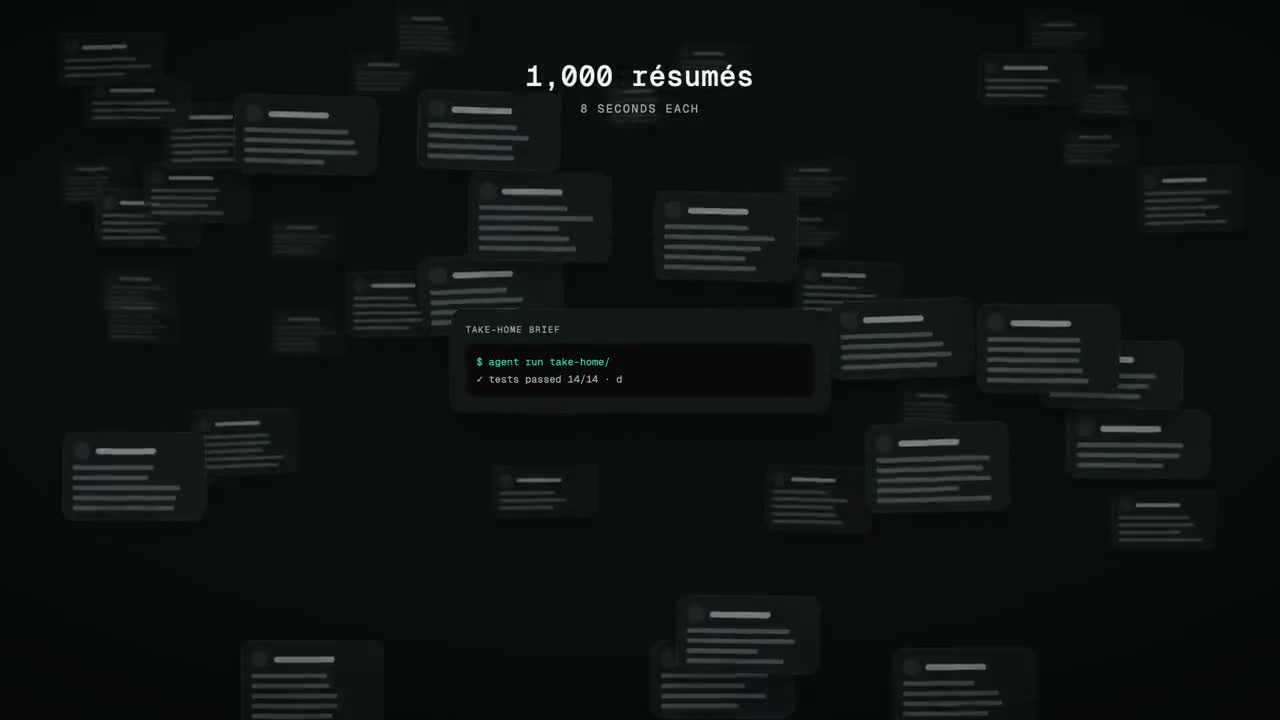
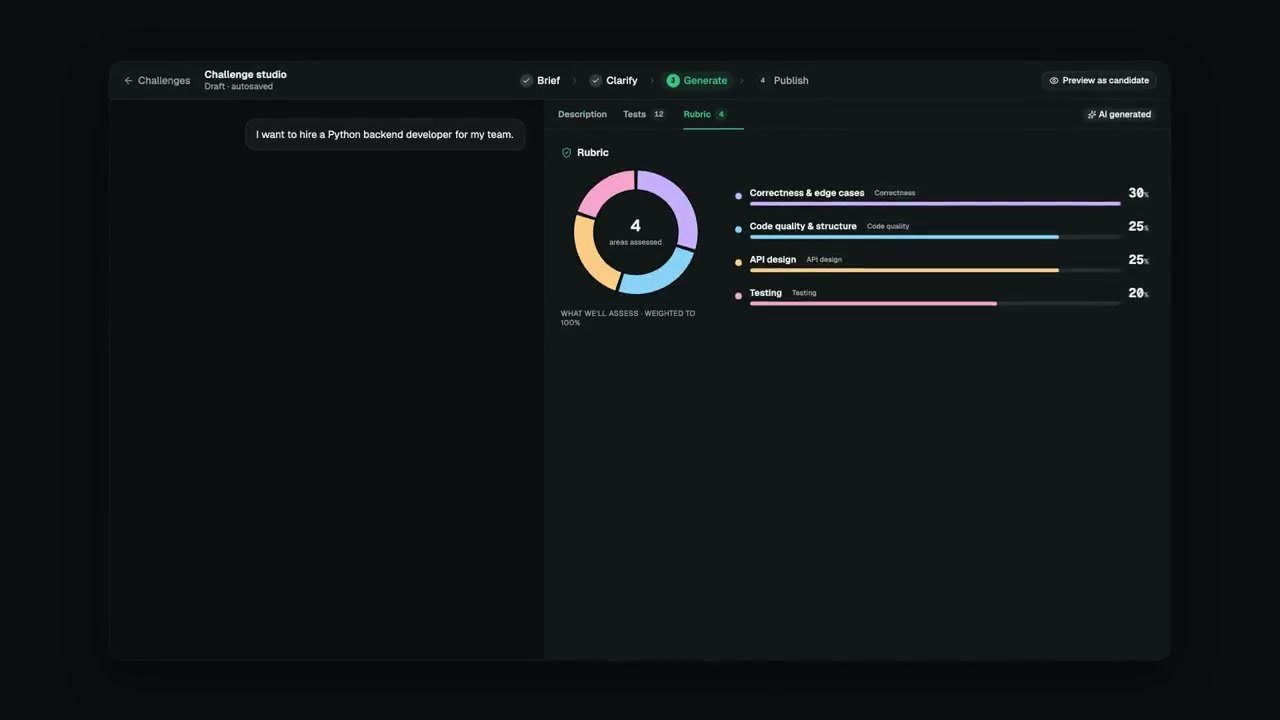
Rebuild the type system on measurements, not taste
Measured Linear, Resend and Vercel rather than guessing at what "product
polish" means. Three things came back that this site was getting wrong.

Body copy was a 17px serif. All three references set body in a neutral sans at
16px on a 24px line; a serif body reads as an essay, not a product. Geist now
carries every role, Newsreader is gone, and IBM Plex Mono is demoted to what it
is for: code and data.

The scale had five sizes between 17px and 34px, which is close enough together
to read as one size, and that is what "no hierarchy" meant. It is bimodal now,
the way the references are: one display size, then a short ramp of small ones.
16px body, 20px lede, 14px secondary, 13px meta, 12px micro, and nothing in
between. Every ad-hoc size in fourteen files was pulled onto it.

Mono stopped being a costume. Uppercase at 0.09em tracking was on every piece
of meta on the site; it is now sentence case at a size you read rather than
decode. Figure numbers keep the treatment, because there it is a convention.

The plotting grid is gone. It read as a fax artefact at this scale and none of
the references use one; the dark bands carry a soft light source instead.

Hero poster is now a frame that shows the product. It used to rest on a
near-black field of grey placeholder cards, which is right for the opening of a
film and wrong for the largest element on the page.

Contrast: --mid and --bone-3 both landed at 4.19:1 under the new palette and
[…]

diff --git a/src/styles/global.css b/src/styles/global.css
@@ -15,7 +15,7 @@
   --paper-3: #DCE2E7;  /* wells, empty track */
   --ink: #11151A;
   --ink-2: #3A434D;
-  --mid: #67717C;
+  --mid: #59636E;
   --rule: #CFD6DC;
 
   /* dark bands, layered: base, surface, raised */
@@ -25,7 +25,7 @@
   --bone: #E9EBEE;
   --bone-dim: #9BA3AF;
   --bone-2: #CBD1D9;
-  --bone-3: #7A828E;
+  --bone-3: #868E9A;
   --rule-dark: #1F242D;
   --rule-dark-2: #2B323D;
 
@@ -45,8 +45,12 @@
   --amber: #E8A33D;
   --azure: #58A6FF;
 
-  --display: "Archivo", "Helvetica Neue", sans-serif;
-  --body: "Newsreader", Georgia, serif;
+  /* One family, several weights, the way the product sites this is measured
+     against do it. A serif body at 17px reads as an essay; the brief is a
+     product site, and every reference (Linear, Vercel, Resend) sets its body in
+     a neutral sans at 16px on a 24px line. */
+  --display: "Geist", "Inter", -apple-system, system-ui, sans-serif;
+  --body: "Geist", "Inter", -apple-system, system-ui, sans-serif;
   --mono: "IBM Plex Mono", ui-monospace, monospace;
 
   --wrap: 1280px;
@@ -57,12 +61,15 @@
   --r: 10px;
   --r-sm: 6px;
 
-  /* type */
-  --t-body: 1.0625rem;
-  --t-small: .95rem;
-  --t-lede: clamp(1.2rem, 1.5vw, 1.42rem);
-  --t-label: .7rem;
-  --t-micro: .69rem;
+  /* Type, deliberately bimodal. One large display size, then a short ramp of
+     small ones. The old scale ran 17 / 19 / 23 / 26 / 34px, which is five sizes
+     close enough together to read as one size, and that is what "no hierarchy"
+     meant. */
+  --t-body: 1rem;        /* 16 / 24 */
+  --t-small: .875rem;    /* 14 */
+  --t-lede: 1.25rem;     /* 20 / 32 */
+  --t-label: .8125rem;   /* 13 */
+  --t-micro: .75rem;     /* 12 */
 
   /* vertical rhythm */
   --s-1: 8px;
@@ -83,7 +90,8 @@ body {
   color: var(--ink);
   font-family: var(--body);
   font-size: var(--t-body);
-  line-height: 1.6;
+  line-height: 1.5;
+  letter-spacing: -.006em;
   -webkit-font-smoothing: antialiased;
   overflow-x: hidden;
 }
@@ -95,24 +103,20 @@ img { max-width: 100%; display: block; }
 .chamber :focus-visible { outline-color: var(--pass-lit); }
 
 .wrap { width: 100%; max-width: var(--wrap); margin-inline: auto; padding-inline: var(--gut); }
-.mono { font-family: var(--mono); font-size: var(--t-label); letter-spacing: .09em; text-transform: uppercase; }
+/* Mono is for data and code. It stopped being a costume: no capitals, no
+   wide tracking, at a size you read rather than decode. */
+.mono { font-family: var(--mono); font-size: var(--t-label); letter-spacing: -.01em; }
 .serif-i { font-style: italic; }
 
 /* Archivo carries every heading. Expanded width is the signature. */
 /* Archivo carries every heading, at a weight and width you can read rather than
    one you have to survive. It used to be 800 at 118% width in capitals, which is
    a poster treatment applied to every heading on the page at once. */
-.d {
-  font-family: var(--display);
-  font-weight: 620;
-  font-stretch: 100%;
-  letter-spacing: -.021em;
-  line-height: 1.04;
-}
-.d-1 { font-size: clamp(2.4rem, 6vw, 5rem); font-weight: 660; letter-spacing: -.028em; margin-bottom: var(--s-4); }
-.d-2 { font-size: clamp(1.95rem, 3.6vw, 3.1rem); font-weight: 650; letter-spacing: -.026em; margin-bottom: var(--s-3); }
-.d-sec { font-size: clamp(1.55rem, 2.3vw, 2.15rem); font-weight: 640; letter-spacing: -.024em; margin-bottom: var(--s-2); }
-.d-3 { font-size: clamp(1.14rem, 1.55vw, 1.32rem); font-weight: 620; letter-spacing: -.014em; line-height: 1.24; margin-bottom: var(--s-2); }
+.d { font-family: var(--display); font-weight: 560; letter-spacing: -.026em; line-height: 1.06; }
+.d-1 { font-size: clamp(2.5rem, 5.2vw, 4.25rem); letter-spacing: -.034em; line-height: 1.02; margin-bottom: var(--s-4); }
+.d-2 { font-size: clamp(1.75rem, 2.6vw, 2.25rem); letter-spacing: -.028em; line-height: 1.12; margin-bottom: var(--s-3); }
+.d-sec { font-size: clamp(1.6rem, 2.3vw, 2rem); letter-spacing: -.026em; line-height: 1.14; margin-bottom: var(--s-2); }
+.d-3 { font-size: 1.0625rem; font-weight: 550; letter-spacing: -.014em; line-height: 1.35; margin-bottom: var(--s-2); }
 /* Headings own the space beneath them. Nothing downstream adds its own margin-top. */
 .lede { margin-top: 0; }
 
@@ -131,15 +135,13 @@ a:hover { text-decoration-thickness: 2px; }
 
 /* chambers ---------------------------------------------------------------- */
 .chamber { background: var(--void); color: var(--bone); position: relative; }
-/* A faint plotting grid, so the dark bands read as a surface rather than a void. */
+/* A soft light source instead of graph paper. The grid read as a fax artefact
+   at this scale, and none of the references this is measured against use one. */
 .chamber::before {
   content: ""; position: absolute; inset: 0; pointer-events: none; z-index: 0;
-  background-image:
-    linear-gradient(to right, rgba(255,255,255,.028) 1px, transparent 1px),
-    linear-gradient(to bottom, rgba(255,255,255,.028) 1px, transparent 1px);
-  background-size: 26px 26px;
-  -webkit-mask-image: radial-gradient(120% 90% at 50% 40%, #000 30%, transparent 85%);
-  mask-image: radial-gradient(120% 90% at 50% 40%, #000 30%, transparent 85%);
+  background:
+    radial-gradient(70% 55% at 50% -10%, rgba(53, 224, 138, .045), transparent 62%),
+    radial-gradient(52% 44% at 88% 6%, rgba(88, 166, 255, .04), transparent 60%);
 }
 .chamber > * { position: relative; z-index: 1; }
 .chamber ::selection { background: var(--pass-lit); color: var(--void); }
@@ -149,10 +151,10 @@ a:hover { text-decoration-thickness: 2px; }
 .sec { padding-block: var(--s-6); }
 /* Section labels used to be 10px uppercase mono. That is a size you look at,
    not a size you read. They are sentences now. */
-.eyebrow { color: var(--mid); margin-bottom: var(--s-2); font-family: var(--body); font-size: var(--t-small); letter-spacing: 0; text-transform: none; }
+.eyebrow { color: var(--mid); margin-bottom: var(--s-2); font-size: var(--t-label); font-weight: 500; }
 .chamber .eyebrow { color: var(--bone-dim); }
 
-.lede { font-size: var(--t-lede); line-height: 1.42; max-width: 38ch; color: var(--ink-2); }
+.lede { font-size: var(--t-lede); line-height: 1.6; max-width: 42ch; color: var(--ink-2); }
 .chamber .lede { color: var(--bone-dim); }
 
 /* reveal ------------------------------------------------------------------ */
@@ -176,7 +178,7 @@ a:hover { text-decoration-thickness: 2px; }
 .top[data-stuck] { background: color-mix(in oklab, var(--void) 92%, transparent); border-bottom-color: var(--rule-dark); backdrop-filter: blur(10px); }
 .top[data-stuck][data-over='light'] { background: color-mix(in oklab, var(--paper) 92%, transparent); border-bottom-color: var(--rule); }
 .top[data-hidden] { transform: translateY(-100%); }
-.top-in { display: flex; align-items: center; justify-content: space-between; height: 62px; gap: 20px; }
+.top-in { display: flex; align-items: center; justify-content: space-between; height: 62px; gap: 20px; font-family: var(--body); font-size: var(--t-small); font-weight: 480; letter-spacing: -.008em; }
 .top a { text-decoration: none; }
 .top .nav { display: flex; gap: clamp(14px, 2.4vw, 30px); }
 .top .nav a { opacity: .68; transition: opacity .18s ease; }
@@ -186,7 +188,7 @@ a:hover { text-decoration-thickness: 2px; }
 
 /* footer ------------------------------------------------------------------ */
 .foot { border-top: 1px solid var(--rule-dark); }
-.foot-in { display: flex; flex-wrap: wrap; gap: 14px 32px; justify-content: space-between; padding-block: 26px; color: var(--bone-dim); }
+.foot-in { display: flex; flex-wrap: wrap; gap: 14px 32px; justify-content: space-between; padding-block: 26px; color: var(--bone-dim); font-family: var(--body); font-size: var(--t-small); }
 
 .top .brand .short { display: none; }
 
@@ -229,16 +231,12 @@ a:hover { text-decoration-thickness: 2px; }
 }
 .light .plate-cap { color: var(--mid); }
 
-/* A graticule. Behind a plate it reads as chart paper, which is what the things
-   drawn on top of it actually are. */
+/* Kept as a hook so sections can carry a soft wash; no longer a grid. */
 .graticule {
   position: absolute; inset: 0; pointer-events: none; z-index: 0;
-  background-image:
-    linear-gradient(to right, var(--grat, rgba(255,255,255,.032)) 1px, transparent 1px),
-    linear-gradient(to bottom, var(--grat, rgba(255,255,255,.032)) 1px, transparent 1px);
-  background-size: 26px 26px;
+  background: radial-gradient(60% 50% at 50% 0%, rgba(88, 166, 255, .05), transparent 65%);
 }
-.light .graticule { --grat: rgba(10,10,11,.055); }
+.light .graticule { background: radial-gradient(62% 52% at 50% 0%, rgba(17, 21, 26, .035), transparent 66%); }
 
 /* A graduated rule. Used where the page needs an edge that means something:
    a scale, a boundary, the end of a band. */
